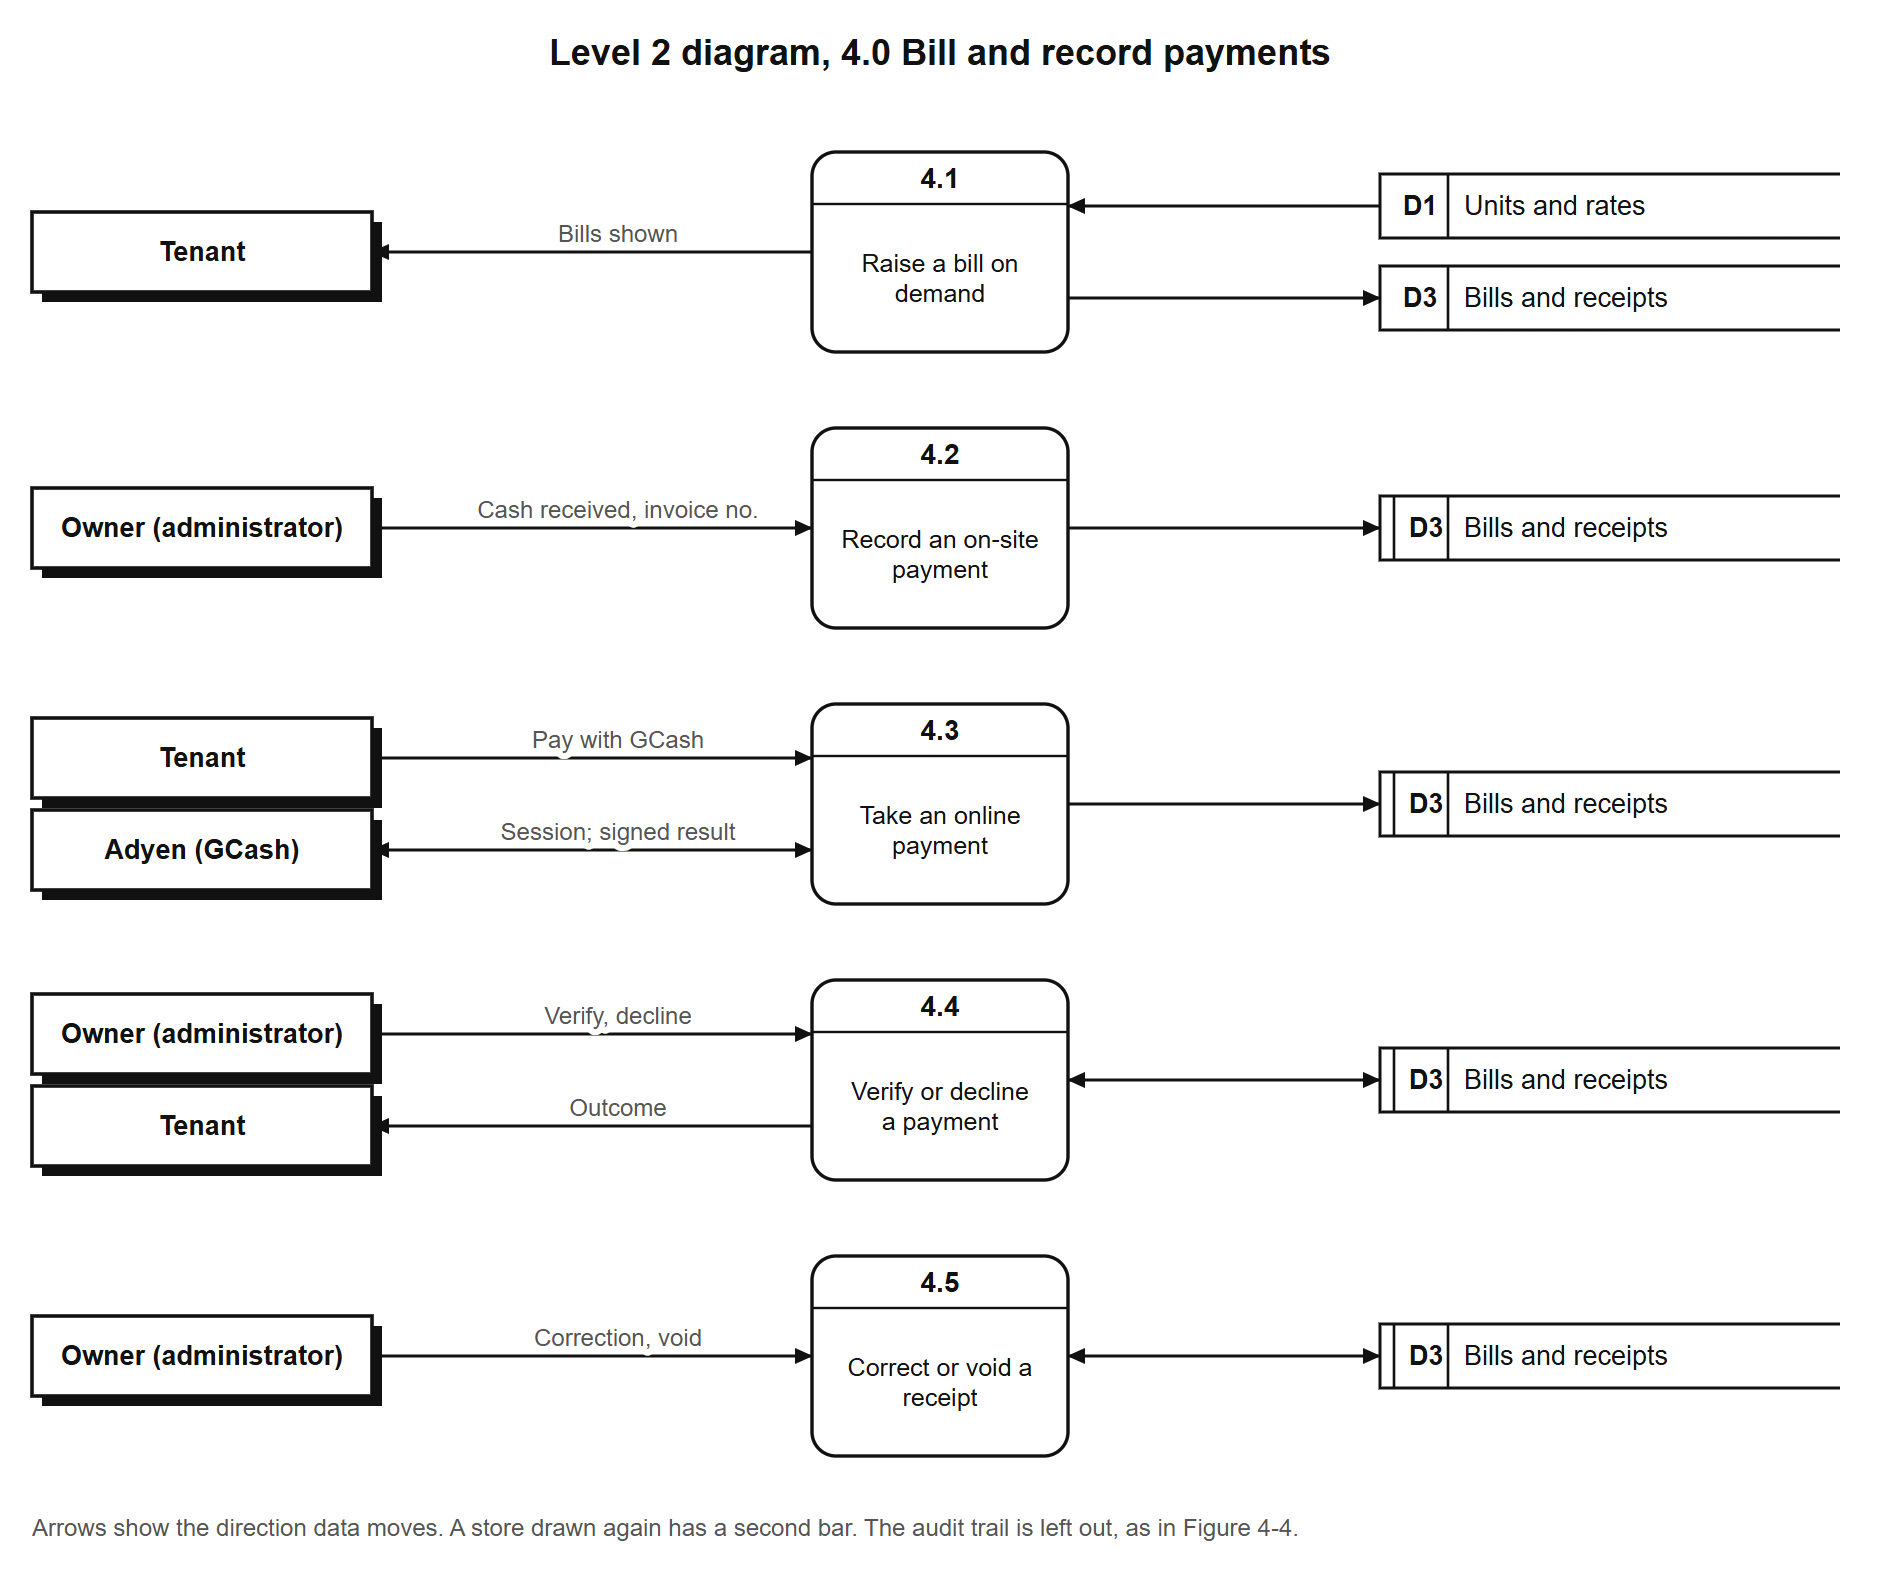
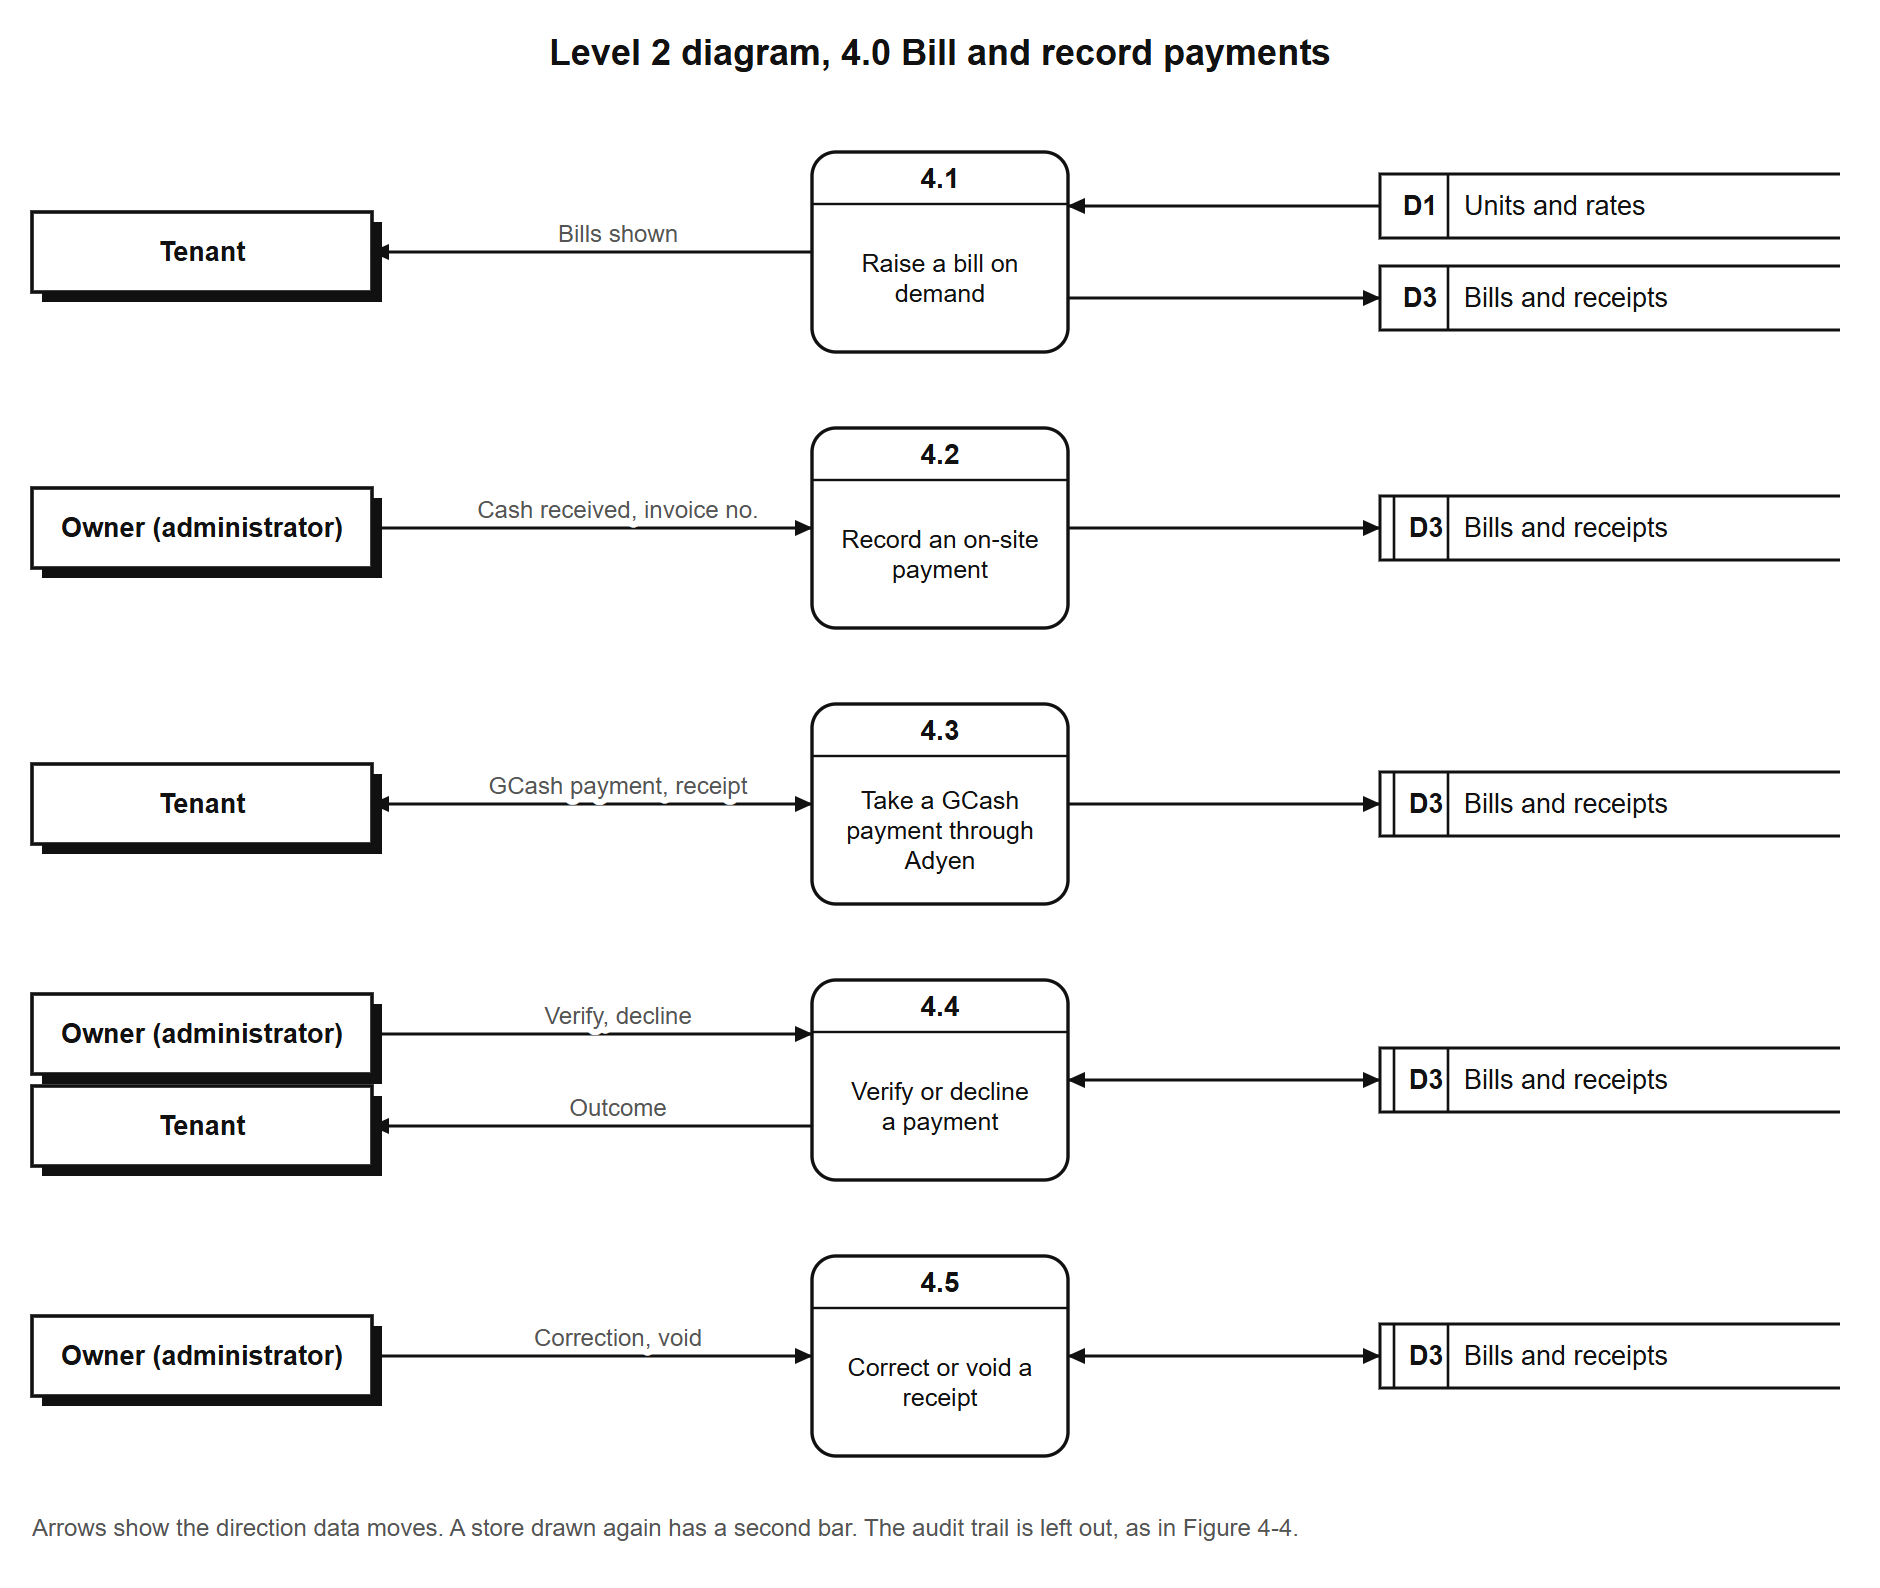
Adyen is part of the payment process, not an entity, in the data flow diagrams
Sean, 4 Nov 2026: the SAD professor took Adyen off the approved context diagram because it is a
process, not an entity. It is now no external entity on the context diagram, Level 1 or Level 2,
so no level adds a party the context diagram lacks and the diagrams balance. Step 4.3 of Appendix
F is "Take a GCash payment through Adyen". Section 4.2.1 gives the reason, and Figure 5 and the
use case diagram, which are not data flow diagrams, still show the gateway. The context diagram's
owner label says income and expense records, as the screens do. P18 is answered.

Changed region(s): [[0.0, 0.4628, 0.216, 0.5863], [0.2468, 0.4628, 0.4319, 0.5554], [0.4628, 0.4937, 0.5553, 0.5554]]

diff --git a/FINAL/DEFENSE_CHECKLIST_STATUS.md b/FINAL/DEFENSE_CHECKLIST_STATUS.md
@@ -21,7 +21,7 @@ needs a person, a signature or a paper.
 | 9 | UAT signed by the client | Appendix O is ready to print. The owner has not signed (P1) | Waiting on the signature | Team |
 | 10 | Deployed or pilot-tested, with a Deployment Report and a Client or End-User Acceptance Form or MOA | Deployed at hivelet.vercel.app since 24 September 2026, in use beside the owner's records (Table 25). **No Deployment Report document. No MOA or acceptance form found** (the UAT sign-off of item 9 may or may not be the same form as Module 06's) | **Missing** | Claude can draft the Deployment Report. Team: the acceptance form or MOA |
 | 11 | User manual complete, and the source code in version control and open to the Programming Adviser | Appendix K, brought up to date for the redesign on 4 November. The code is on GitHub | Done, with one catch | P9 makes the repository private before the defense. If it goes private, **add the Programming Adviser as a collaborator** or item 11 fails |
-| 12 | Context Diagram in the standard model | Figure 6 and Appendix D, in Gane and Sarson since 4 November | Done | See the Adyen question below |
+| 12 | Context Diagram in the standard model | Figure 6 and Appendix D, in Gane and Sarson since 4 November | Done | Adyen taken off on 4 November, as the professor approved |
 | 13 | Data Flow Diagram in **Gane and Sarson** notation, **down to Level 2** | Redrawn on 4 November: Figure 7 (Level 1) and Appendix F, now Level 2 diagrams for all eight processes. They were Yourdon-DeMarco circles, with four of eight processes opened | Done | See the level naming question below |
 | 14 | Use Case Diagram | Figure 8 and Appendix G | Done | |
 | 15 | ERD or database diagram | Figure 9 and Appendix H, drawn from the live database catalogue | Done | |
@@ -52,7 +52,10 @@ three ways the team should settle before the defense:
 1. **Adyen.** Its context diagram (Figure 1) draws three entities, Tenant, Administrator and Public
    User, and no Adyen, though its own text says "four external entities" and names Adyen. The
    paper's Figure 6 keeps Adyen, because the gateway really does send each payment's result into the
-   system. **Waiting on Sean**: did the professor say to take Adyen off, or was it never drawn?
+   system. **Settled 4 November**: the professor took it off because Adyen is part of a process,
+   not an entity. So it is no external entity on any level, which keeps the diagrams balanced, and
+   step 4.3 of Appendix F is "Take a GCash payment through Adyen". Section 4.2.1 says why. Figure 5 (the architecture) and the use
+   case diagram still show Adyen, since those are not data flow diagrams.
 2. **Processes.** It has five (manage tenant and room records, booking and reservation, financial
    transactions, maintenance tickets, sign-in and access). The paper's Figure 7 has eight, drawn
    from what was built, and the system has no booking approval: a visitor sends an inquiry and the

diff --git a/FINAL/QUESTIONS_TO_FINALIZE.md b/FINAL/QUESTIONS_TO_FINALIZE.md
@@ -26,7 +26,7 @@ Section 1.**
 
 | P16 | **New screenshots for the paper**: Figures 10 to 14 and every other figure of a screen show the design before Iteration 3 (the glass redesign of 1 to 2 November) | Retake once the design is final, with sample tenants only, then replace the images in the manuscript |
 | P17 | **The last batch of tenants and prospects** (Sean, 2 Nov 2026): their results go into Sections 4.3 and 4.4, and Iteration 3's Review row in Table M-19 | Waiting for the batch. The tests and evaluators already reported stay as they are |
-| P18 | **Adyen on the context diagram** (4 Nov 2026): the SAD Laboratory Activity 3 the professor approved draws no Adyen, though its text names it as the fourth entity. Did the professor say to remove it? | Figure 6 keeps it for now, since the gateway sends each payment result into the system. If the professor wants it off, Claude removes it from Figures 6 and 7 and Appendix F and says why in Section 4.2.1. See `FINAL/DEFENSE_CHECKLIST_STATUS.md` |
+| P18 | ~~Done 4 Nov~~ **Adyen on the context diagram** (4 Nov 2026): the SAD Laboratory Activity 3 the professor approved draws no Adyen, though its text names it as the fourth entity. Did the professor say to remove it? | **Answered 4 Nov: yes, Adyen is part of a process, not an entity.** It is no entity on Figures 6 and 7 or Appendix F, so the levels balance, and step 4.3 is "Take a GCash payment through Adyen". Section 4.2.1 says why. Figure 5 and the use case diagram keep it |
 | P19 | **The Form 2 and Proponent's Checklist items only the team can do** (4 Nov 2026): consultation records, Forms 3A and 3B, the similarity report, the acceptance form or MOA, the mock defense, the copies | Item by item in `FINAL/DEFENSE_CHECKLIST_STATUS.md`. Claude can draft the Literature Map, the revision log and the Deployment Report |
 
 ## 2. The answers, and what each changed

diff --git a/FINAL/05_CHAPTER_4_RESULTS_AND_DISCUSSION.md b/FINAL/05_CHAPTER_4_RESULTS_AND_DISCUSSION.md
@@ -153,14 +153,17 @@ equipment beyond the owner's own laptop and phone.
 
 ![System architecture](<../docs/FINAL MANUSCRIPT/figures/figure-5-system-architecture.png>)
 
-Figure 4-3 is the context diagram: the system as one process, with the four parties outside it and the
+Figure 4-3 is the context diagram: the system as one process, with the three parties outside it and the
 data that passes between them. Figure 4-4 opens it into eight processes and the stores each reads and
 writes, in the Gane and Sarson notation: a rounded rectangle is a process, a rectangle open on
 the right is a data store, and a shaded square is a party outside the system. To trace one path: the owner records a cash receipt through
 process 4.0, Bill and record payments, which writes it to store D3, Bills and receipts, and process
 7.0, Produce reports, reads it from there for the Overview and the Excel workbooks. The notifications
 and the audit record are written by nearly every process and are left out of Figure 4-4 for
-readability.
+readability. Adyen, the payment gateway, is drawn as part of the payment process rather than as a
+party outside the system, as in the data flow diagrams the team's Systems Analysis and Design
+professor approved. Taking a GCash payment through Adyen is step 4.3 of process 4.0 (Appendix F),
+and Figure 4-2 shows where the gateway sits.
 
 *Figure 4-3. Context diagram.*
 

diff --git a/docs/FINAL MANUSCRIPT/CHAPTER_4_RESULTS_AND_DISCUSSION.md b/docs/FINAL MANUSCRIPT/CHAPTER_4_RESULTS_AND_DISCUSSION.md
@@ -165,14 +165,17 @@ equipment beyond the owner's own laptop and phone.
 
 ![System architecture](figures/figure-5-system-architecture.png)
 
-Figure 6 is the context diagram: the system as one process, with the four parties outside it and the
+Figure 6 is the context diagram: the system as one process, with the three parties outside it and the
 data that passes between them. Figure 7 opens it into eight processes and the stores each reads and
 writes, in the Gane and Sarson notation: a rounded rectangle is a process, a rectangle open on
 the right is a data store, and a shaded square is a party outside the system. To trace one path: the owner records a cash receipt through
 process 4.0, Bill and record payments, which writes it to store D3, Bills and receipts, and process
 7.0, Produce reports, reads it from there for the Overview and the Excel workbooks. The notifications
 and the audit record are written by nearly every process and are left out of Figure 7 for
-readability.
+readability. Adyen, the payment gateway, is drawn as part of the payment process rather than as a
+party outside the system, as in the data flow diagrams the team's Systems Analysis and Design
+professor approved. Taking a GCash payment through Adyen is step 4.3 of process 4.0 (Appendix F),
+and Figure 5 shows where the gateway sits.
 
 *Figure 6. Context diagram.*
 

diff --git a/FINAL/STUDY_GUIDE_PAPER_WALKTHROUGH.md b/FINAL/STUDY_GUIDE_PAPER_WALKTHROUGH.md
@@ -889,8 +889,10 @@ The section then has four labelled parts.
   directly, never through the API".
 
 **Figure 4-3. Context diagram.**
-- *What it shows*: the whole system as one circle (process 0) with the four outside parties: Visitor or
-  prospect, Owner (administrator), Tenant, and the Adyen payment gateway (GCash).
+- *What it shows*: the whole system as one rounded box (process 0) with the three outside parties:
+  Visitor or prospect, Owner (administrator) and Tenant. Adyen is not drawn: as the SAD professor
+  approved, it is part of the payment process, not an entity, and appears as step 4.3 in Appendix F.
+  If asked, the diagrams balance because no level adds an outside party the context diagram lacks.
 - *How to read it*: each arrow is data going in or out. For example, the owner sends payments with
   invoice numbers, and gets overview figures, ledgers and workbook downloads back.
 

diff --git a/FINAL/STUDY_GUIDE_GLOSSARY.md b/FINAL/STUDY_GUIDE_GLOSSARY.md
@@ -708,7 +708,7 @@ App. M, Table M-19; App. Q.
 **Content Security Policy (CSP).** A rule the site sends to browsers listing where scripts may come
 from, so an injected script is blocked. Hivelet's is enforced. **Where:** Section 4.4.4.
 
-**Context diagram.** A data flow diagram showing the whole system as one process, with the four
+**Context diagram.** A data flow diagram showing the whole system as one process, with the three
 outside parties and the data between them. **Where:** Figure 4-3; App. D.
 
 **Cookie.** A small value a website keeps in the browser. Ch. 5 recommends keeping the sign-in token
